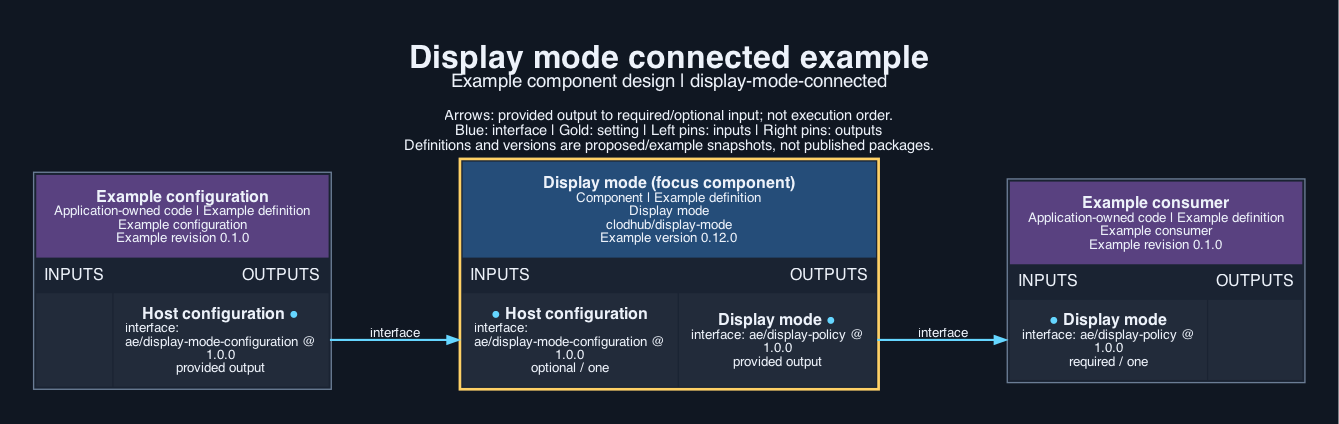
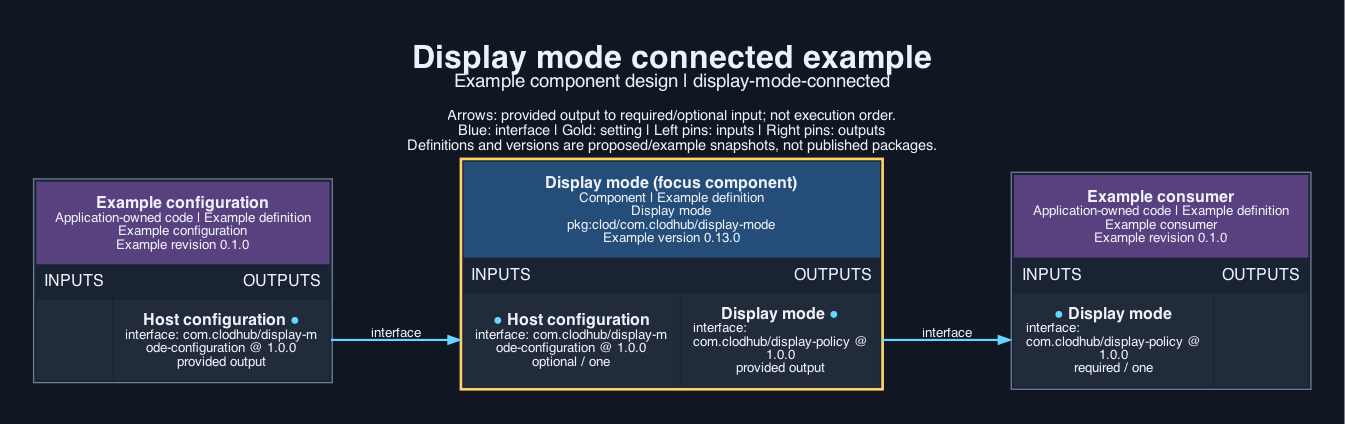
display-mode 0.13.0: package URL names, clod, com.clodhub interface types and Kotlin packages

diff --git a/tests/android/Main.kt b/tests/android/Main.kt
@@ -1,4 +1,4 @@
-import ae.display.DisplayPolicy
+import com.clodhub.display.DisplayPolicy
 
 fun main() {
     for (display in listOf(true, false)) {

diff --git a/implementation/android/src/main/java/com/clodhub/display/DisplayPolicy.kt b/implementation/android/src/main/java/com/clodhub/display/DisplayPolicy.kt
@@ -1,4 +1,4 @@
-package ae.display
+package com.clodhub.display
 
 object DisplayPolicy {
     fun canAct(display: Boolean): Boolean = !display

diff --git a/scripts/check-native.py b/scripts/check-native.py
@@ -10,7 +10,7 @@ with tempfile.TemporaryDirectory(prefix="display-policy-") as directory:
         subprocess.run(["swiftc", str(root / "implementation/apple/Sources/DisplayPolicy.swift"), str(root / "tests/apple/main.swift"), "-o", str(output / "check")], check=True)
         subprocess.run([str(output / "check")], check=True)
     elif sys.argv[1] == "android":
-        subprocess.run(["kotlinc", str(root / "implementation/android/src/main/java/ae/display/DisplayPolicy.kt"), str(root / "tests/android/Main.kt"), "-include-runtime", "-d", str(output / "check.jar")], check=True)
+        subprocess.run(["kotlinc", str(root / "implementation/android/src/main/java/com/clodhub/display/DisplayPolicy.kt"), str(root / "tests/android/Main.kt"), "-include-runtime", "-d", str(output / "check.jar")], check=True)
         subprocess.run(["java", "-jar", str(output / "check.jar")], check=True)
     else:
         raise SystemExit("Unknown platform")

diff --git a/INSTRUCTIONS.md b/INSTRUCTIONS.md
@@ -1,6 +1,6 @@
 # Display mode instructions
 
-Package `clodhub/display-mode` version `0.12.0`. It provides `display-policy` (type `ae/display-policy`, version 1.0.0) and optionally requires `display-mode-configuration` (type `ae/display-mode-configuration`, version 1.0.0).
+Package `pkg:clod/com.clodhub/display-mode` version `0.13.0`. It provides `display-policy` (type `com.clodhub/display-policy`, version 1.0.0) and optionally requires `display-mode-configuration` (type `com.clodhub/display-mode-configuration`, version 1.0.0).
 
 ## For the agent
 
@@ -13,7 +13,7 @@ Package `clodhub/display-mode` version `0.12.0`. It provides `display-policy` (t
 
 - Web: `components/display-mode/web/mode.ts`. Call `createMode(initial, eventName)` once per session and call `publish(initial)` before any capture. `publish` sets `document.documentElement.dataset.mode` and then dispatches `CustomEvent(eventName, {detail: {mode}})`. `current()` reads the mode. `displayCapabilities(display)` returns `{canAct, canCapture, canSeePrivate}`, all false when `display` is true.
 - Apple: `components/display-mode/apple/Sources/DisplayPolicy.swift` has `DisplayPolicy.canAct`, `canCapture` and `canSeePrivate`.
-- Android: `components/display-mode/android/src/main/java/ae/display/DisplayPolicy.kt` has `ae.display.DisplayPolicy` with the same three functions.
+- Android: `components/display-mode/android/src/main/java/com/clodhub/display/DisplayPolicy.kt` has `com.clodhub.display.DisplayPolicy` with the same three functions.
 - Call the policy at each action and media boundary. This component does not authenticate anyone and does not hide data on the server; the room service must redact private views itself.
 - Persistence of the chosen mode belongs to you.
 
@@ -24,6 +24,6 @@ From the component directory:
 - `node --test tests/mode.test.mjs` (required)
 - `python3 scripts/check-native.py apple` (needs swiftc 6.4)
 - `python3 scripts/check-native.py android` (needs kotlinc and java 26.0; not runnable where kotlinc is missing)
-- `python3 -m aepm review <digest> --store STORE --policy POLICY --trusted --allow-network` checks an archive fetched with `python3 -m aepm fetch clodhub/display-mode@VERSION --store STORE --from https://clodhub.com` and runs its suites.
+- `python3 -m clod review <digest> --store STORE --policy POLICY --trusted --allow-network` checks an archive fetched with `python3 -m clod fetch display-mode@VERSION --store STORE --from https://clodhub.com` and runs its suites.
 
 In the application, switch to board mode and confirm that capture requests are refused, no private values render and the mode event fires once per change.

diff --git a/CONTRACT.md b/CONTRACT.md
@@ -18,13 +18,13 @@ There are no installer settings. The application gives two values in code when i
 Remembering the chosen mode between visits is up to the application.
 
 ## Artefacts and dependencies
-Every implementation file maps to `components/display-mode/` with its `implementation/` prefix removed: `web/mode.ts` and `web/index.ts`, `apple/Sources/DisplayPolicy.swift` and `android/src/main/java/ae/display/DisplayPolicy.kt`. SOURCE.md records where each file came from and SOURCE.json pins the source hashes. No runtime dependencies. `tools.lock.json` pins the check tools (Node 26.5, Python 3.12, Swift 6.4, Kotlin 2.2, Java 26.0).
+Every implementation file maps to `components/display-mode/` with its `implementation/` prefix removed: `web/mode.ts` and `web/index.ts`, `apple/Sources/DisplayPolicy.swift` and `android/src/main/java/com/clodhub/display/DisplayPolicy.kt`. SOURCE.md records where each file came from and SOURCE.json pins the source hashes. No runtime dependencies. `tools.lock.json` pins the check tools (Node 26.5, Python 3.12, Swift 6.4, Kotlin 2.2, Java 26.0).
 
 ## Provided interfaces
-`interfaces/display-policy.json` is an OpenRPC 1.3.2 document for `ae/display-policy` version 1.0.0: `createMode`, the returned handle's `ModeHandle.current` and `ModeHandle.publish`, and `displayCapabilities` (web), and `DisplayPolicy.canAct`, `canCapture` and `canSeePrivate` (Swift and Kotlin), with types as JSON Schema 2020-12.
+`interfaces/display-policy.json` is an OpenRPC 1.3.2 document for `com.clodhub/display-policy` version 1.0.0: `createMode`, the returned handle's `ModeHandle.current` and `ModeHandle.publish`, and `displayCapabilities` (web), and `DisplayPolicy.canAct`, `canCapture` and `canSeePrivate` (Swift and Kotlin), with types as JSON Schema 2020-12.
 
 ## Required interfaces
-`display-mode-configuration` (`ae/display-mode-configuration` version 1.0.0) is optional: the two values can be passed in code, so a design may leave it unconnected. `interfaces/required-display-mode-configuration.json` is the JSON Schema 2020-12 document of its fields, `initial` and `eventName`.
+`display-mode-configuration` (`com.clodhub/display-mode-configuration` version 1.0.0) is optional: the two values can be passed in code, so a design may leave it unconnected. `interfaces/required-display-mode-configuration.json` is the JSON Schema 2020-12 document of its fields, `initial` and `eventName`.
 
 ## Integration
 Create the mode once when the application starts and publish the starting mode before anything can capture media:

diff --git a/.opencode/knowledge/00-index.md b/.opencode/knowledge/00-index.md
@@ -1,7 +1,7 @@
 # display-mode ownership
 
-Repository: https://github.com/clodhub/display-mode.git. Package `clodhub/display-mode`, provides `display-policy` (`ae/display-policy`), requires `display-mode-configuration` (`ae/display-mode-configuration`).
+Repository: https://github.com/clodhub/display-mode.git. Package `pkg:clod/com.clodhub/display-mode`, provides `display-policy` (`com.clodhub/display-policy`), requires `display-mode-configuration` (`com.clodhub/display-mode-configuration`).
 
-Code: `implementation/web/mode.ts`, `implementation/apple/Sources/DisplayPolicy.swift`, `implementation/android/src/main/java/ae/display/DisplayPolicy.kt`.
-Artefacts: `component.json`, `CONTRACT.md`, `INSTRUCTIONS.md`, `SOURCE.md`, `suitability.json`, `tools.lock.json`, `SOURCE.json`, `interfaces/display-policy.json` (OpenRPC 1.3.2 document of the provided ae/display-policy interface), `interfaces/required-display-mode-configuration.json` (JSON Schema 2020-12 of the configuration), `tests/`, `visual/`. No data is kept, so there is no `migration.json`.
+Code: `implementation/web/mode.ts`, `implementation/apple/Sources/DisplayPolicy.swift`, `implementation/android/src/main/java/com/clodhub/display/DisplayPolicy.kt`.
+Artefacts: `component.json`, `CONTRACT.md`, `INSTRUCTIONS.md`, `SOURCE.md`, `suitability.json`, `tools.lock.json`, `SOURCE.json`, `interfaces/display-policy.json` (OpenRPC 1.3.2 document of the provided com.clodhub/display-policy interface), `interfaces/required-display-mode-configuration.json` (JSON Schema 2020-12 of the configuration), `tests/`, `visual/`. No data is kept, so there is no `migration.json`.
 Server display authentication and private-data redaction belong to the room service, not here.

diff --git a/SOURCE.md b/SOURCE.md
@@ -6,7 +6,7 @@ Reference revision: `19905b75dbea89fbfd424d67fe26c81aaed0e018` (frozen McInPoker
 |---|---|---|---|
 | `implementation/web/mode.ts` (20) | `web/src/mode.ts` 1-16 (`SessionMode`, `sessionMode`, `publishMode`) | `createMode(initial, eventName)` replaces the module-level mode and the fixed event name; `displayCapabilities(display)` states the board rule once | Browser storage of the mode (`localStorage`, line 3), the desktop flag and the `window` properties (lines 4-9), the application's event name |
 | `implementation/apple/Sources/DisplayPolicy.swift` (5) | `ios/McInPoker/Sources/Platform.swift` 3-5 (`RoomMode`); viewer rules from `ios/McInPoker/Sources/McInPokerApp.swift` 25, 36, 69, 118 and `ios/McInPoker/Sources/TableModel.swift` 521-530 | Three pure functions of one boolean | SwiftUI view helpers and platform styling (`Platform.swift` 7-41), model state |
-| `implementation/android/src/main/java/ae/display/DisplayPolicy.kt` (7) | `android/app/src/main/java/com/georgemcintyre/mcinpoker/TableViewModel.kt` 198 and `.../ui/Guide.kt` 73 (`view.display` checks) | Same three pure functions | View model, guides, Compose screens |
+| `implementation/android/src/main/java/com/clodhub/display/DisplayPolicy.kt` (7) | `android/app/src/main/java/com/georgemcintyre/mcinpoker/TableViewModel.kt` 198 and `.../ui/Guide.kt` 73 (`view.display` checks) | Same three pure functions | View model, guides, Compose screens |
 
 Fixtures, `examples/consumer.ts`, `scripts/check-native.py` and the tests are neutral local checks written for this component. Server-side enforcement of authentication and redaction stays with the room service.
 

diff --git a/.opencode/knowledge/workflow.md b/.opencode/knowledge/workflow.md
@@ -3,4 +3,4 @@
 Repository: `clodhub/display-mode`. Licence: `Apache-2.0` (`LICENCE`, `NOTICE`).
 
 Commands from the package root: `node --test tests/mode.test.mjs` (required), `python3 scripts/check-native.py apple`, `python3 scripts/check-native.py android` (kotlinc is not installed here, so the Android check does not run).
-Review a fetched archive: `python3 -m aepm review <digest> --store STORE --policy POLICY --trusted --allow-network`. Always `-B`.
+Review a fetched archive: `python3 -m clod review <digest> --store STORE --policy POLICY --trusted --allow-network`. Always `-B`.

diff --git a/visual/output/description.md b/visual/output/description.md
@@ -1,3 +1,3 @@
 # Display mode connected example
 
-Example configuration supplies ae/display-mode-configuration 1.0.0 to Display mode 0.6.0. The component supplies ae/display-policy 1.0.0 to Example consumer. All neighbours are illustrative application code; no deployment is claimed.
+Example configuration supplies com.clodhub/display-mode-configuration 1.0.0 to Display mode 0.13.0. The component supplies com.clodhub/display-policy 1.0.0 to Example consumer. All neighbours are illustrative application code; no deployment is claimed.
